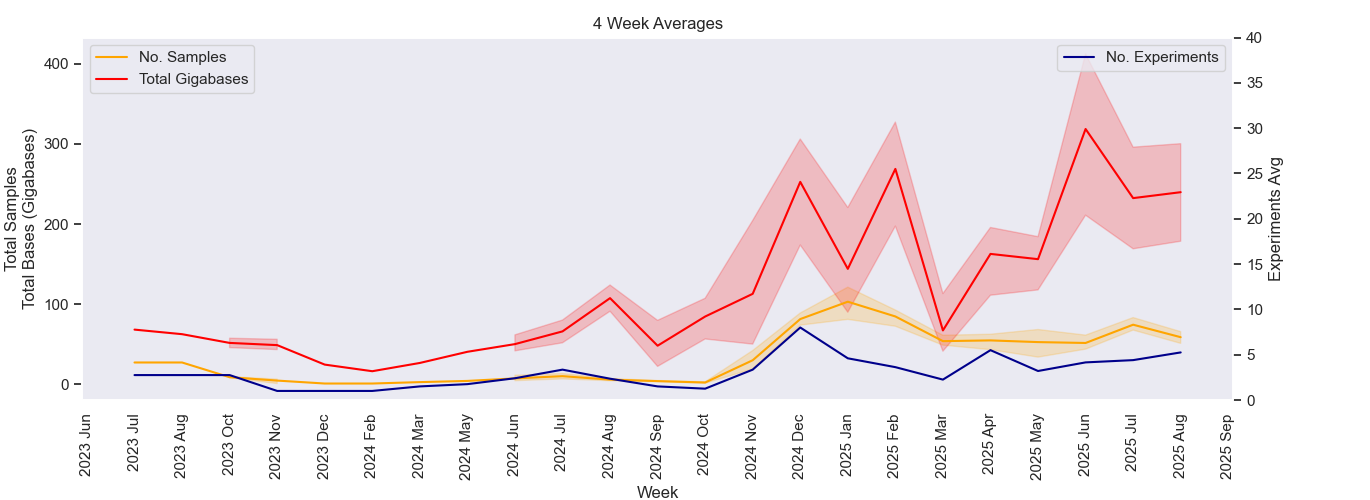
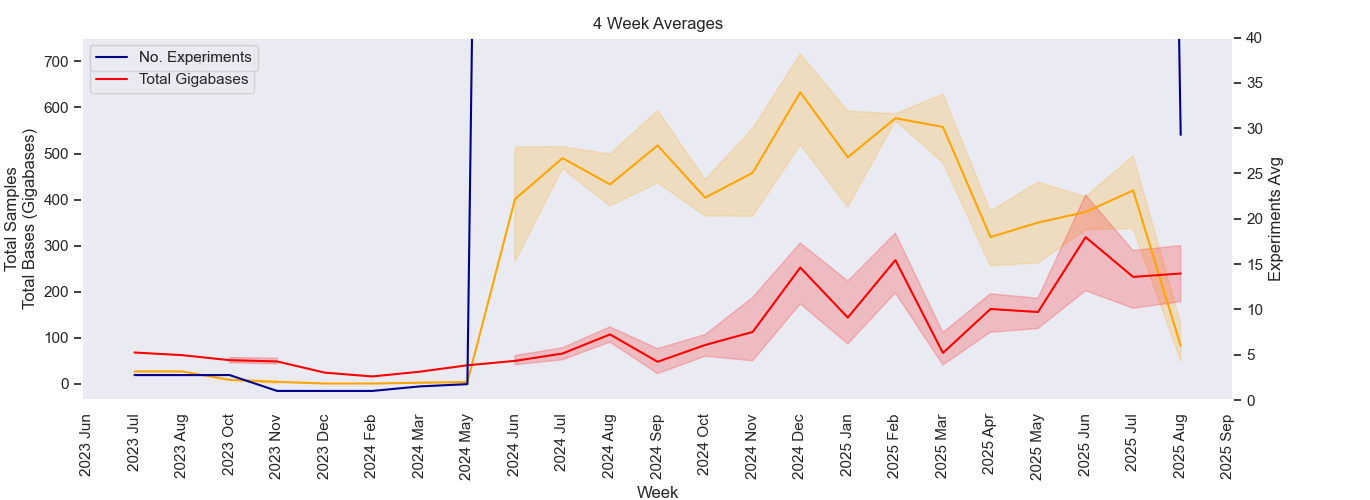
Your commit message here

diff --git a/krona/cgs.html b/krona/cgs.html
@@ -52,8 +52,8 @@ body {
   flex-direction: column;
 }
 </style>
-<H1>Genomics Facility Status: 11:38:54, 03/09/2025</H1>
-<marquee behavior="scroll" scrollamount="20" direction="left" bgcolor="lightgrey">CGGTACGGTCAGGCATCCACGGCGCTTTAAAATAGTTGTTATAGATATTCAAATAACCCTGAAACAAATGCTTAGGGATTTTATTGGTATCAGGGTTAATCGTGCCAAGAAAAGCGGCATGGTCAATATAACCAGTAGTGTTAACAGTCGGGAGAGGAGTGGCATTAACACCATCCTTCATGAACTTAATCCACTGTTCACCATAAACGTGACGATGAGGGACATAAAAAGTAAAAATGTCTACAGTAG</marquee>
+<H1>Genomics Facility Status: 11:41:30, 03/09/2025</H1>
+<marquee behavior="scroll" scrollamount="20" direction="left" bgcolor="lightgrey">AGTGCTTCATCCAACTTACCAAGCTGGGTTACGACGCGACGCCGTTCAACCAGATATTGAAGCAGAACGCAAAAAGAGAGATGAGATTGAGGCTGGGAAAAGTTACTGTAGCCGACGTTTTGGCGGCGCAACCTGTGACGACAAATCTGCTCAAATTTATGCGCGCTTCGATAAAAATGATTGGCGTATCCAACCTGCAGAGTTTTATCGCTTCCATGACGCAGAAGTTAACACTTTCGGATATTTCTGTT</marquee>
 <TABLE BORDER=0><TR><TD><TABLE class="styled-table"><H3>GigaBases Sequenced</H3>
 <TR><TD><b>Platform</b></TD><TD><b>Week</b></TD><TD><b>Month</b></TD><TD><b>Year</b></TD><TD><b>Total</b></TD></TR><TR><TD>Illumina MiSeq</TD><TD>0.0</TD><TD>29.64</TD><TD>287.91</TD><TD>287.91</TD></TR><TR><TD>Illumina NextSeq</TD><TD>8.08</TD><TD>158.27</TD><TD>4435.7</TD><TD>4435.7</TD></TR><TR><TD>Nanopore PromethION</TD><TD>353.64</TD><TD>1131.75</TD><TD>5092.83</TD><TD>6986.56</TD></TR><TR><TD>Sanger</TD><TD>0.0</TD><TD>0.0</TD><TD>0.02</TD><TD>0.03</TD></TR></TABLE></TD><TD><IMG SRC="fig1.png"><IMG SRC="fig2.png"></TD></TR><TR><TD><H3>No. Samples (No. Experiments)</H3>
 <TABLE class="styled-table"><TR><TD><b>Platform</b></TD><TD><b>Week</b></TD><TD><b>Month</b></TD><TD><b>Year</b></TD><TD><b>Total</b></TD></TR><TR><TD>Illumina MiSeq</TD><TD>0 (1)</TD><TD>111 (6)</TD><TD>1397 (43)</TD><TD>1397 (43)</TD></TR><TR><TD>Illumina NextSeq</TD><TD>6 (1)</TD><TD>130 (5)</TD><TD>1359 (48)</TD><TD>1359 (48)</TD></TR><TR><TD>Nanopore PromethION</TD><TD>24 (2)</TD><TD>52 (16)</TD><TD>322 (130)</TD><TD>589 (194)</TD></TR><TR><TD>Sanger</TD><TD>0 (0)</TD><TD>0 (0)</TD><TD>21383 (21383)</TD><TD>28103 (28103)</TD></TR></TABLE></TD><TD><IMG SRC="fig4.png"></TD></TR></TABLE></HTML>

diff --git a/krona/activity_log.py b/krona/activity_log.py
@@ -315,11 +315,11 @@ pivot=pd.pivot_table(df_new,index=['Year','Mon','Week','NiceWeek'], columns=['Pl
 df_new=df
 pivot=pd.pivot_table(df_new,index=['Year','Mon','Week','NiceWeek'], columns=['Platform'],aggfunc=len, fill_value=0).reset_index()
 
-pp=pd.DataFrame(pivot["Total_bp"]["PROMETHION"] + pivot["Total_bp"]["MISEQ"] + pivot["Total_bp"]["NEXSEQ"],columns=["Experiments"])
+pp=pd.DataFrame(pivot["Total_bp"]["PROMETHION"] + pivot["Total_bp"]["MISEQ"] + pivot["Total_bp"]["NEXSEQ"] + pivot["Total_bp"]["SANGER"],columns=["Experiments"])
 pivot=pd.pivot_table(df_new,index=['Year','Mon','Week','NiceWeek'], columns=['Platform'],aggfunc="sum", fill_value=0).reset_index()
 
-pp["Total_bp"]=pivot["Total_bp"]["PROMETHION"] + pivot["Total_bp"]["MISEQ"] + pivot["Total_bp"]["NEXSEQ"]
-pp["Samples"]=pivot["Samples"]["PROMETHION"] + pivot["Samples"]["MISEQ"] + pivot["Samples"]["NEXSEQ"]
+pp["Total_bp"]=pivot["Total_bp"]["PROMETHION"] + pivot["Total_bp"]["MISEQ"] + pivot["Total_bp"]["NEXSEQ"] + pivot["Total_bp"]["SANGER"]
+pp["Samples"]=pivot["Samples"]["PROMETHION"] + pivot["Samples"]["MISEQ"] + pivot["Samples"]["NEXSEQ"] + pivot["Samples"]["SANGER"]
 pp["Week"]=pivot["NiceWeek"]
 
 pp["Experiments Avg"]=pp["Experiments"].rolling(4,center=True).mean()
